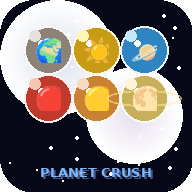
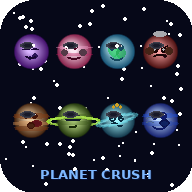
Add files via upload

diff --git a/index.html b/index.html
@@ -205,10 +205,10 @@ html,body { width:100%; height:100%; overflow:hidden; background:var(--bg); font
 @keyframes shakeLg  { 0%,100%{transform:translate(0,0);} 10%{transform:translate(-10px,4px) rotate(-1deg);} 30%{transform:translate(10px,-4px) rotate(1deg);} 50%{transform:translate(-8px,3px) rotate(-0.5deg);} 70%{transform:translate(8px,-3px) rotate(0.5deg);} 90%{transform:translate(-4px,1px);} }
 @keyframes shakeEpic{ 0%,100%{transform:translate(0,0) scale(1);} 8%{transform:translate(-14px,6px) rotate(-2deg) scale(1.02);} 20%{transform:translate(14px,-6px) rotate(2deg) scale(0.98);} 35%{transform:translate(-10px,5px) rotate(-1.5deg);} 50%{transform:translate(12px,-4px) rotate(1.5deg);} 65%{transform:translate(-8px,3px) rotate(-1deg);} 80%{transform:translate(7px,-2px);} }
 
-/* ── Special gems ── */
+/* ── Special objects ── */
 .cell.special-black-hole svg { filter: drop-shadow(0 0 10px rgba(180,0,255,0.9))  drop-shadow(0 0 20px rgba(100,0,200,0.7))  !important; }
 .cell.special-pulsar svg     { filter: drop-shadow(0 0 10px rgba(255,200,50,0.9))  drop-shadow(0 0 20px rgba(255,150,0,0.7))  !important; }
-.cell.special-quantum-bomb svg { filter: drop-shadow(0 0 10px rgba(255,255,255,0.95)) drop-shadow(0 0 20px rgba(100,200,255,0.8)) !important; }
+.cell.special-quantum-explosion svg { filter: drop-shadow(0 0 10px rgba(255,255,255,0.95)) drop-shadow(0 0 20px rgba(100,200,255,0.8)) !important; }
 
 /* ── Moves display ── */
 #moves-wrap { width:100%; display:flex; align-items:center; justify-content:center; gap:6px; }
@@ -442,8 +442,8 @@ html,body { width:100%; height:100%; overflow:hidden; background:var(--bg); font
 
     <!-- Page 3: Specials -->
     <div class="tut-page" id="tut-p2">
-      <div class="tut-title">✨ Special Gems</div>
-      <div class="tut-text" style="margin-bottom:6px">Bigger matches create powerful special gems.</div>
+      <div class="tut-title">✨ Special Objects</div>
+      <div class="tut-text" style="margin-bottom:6px">Bigger matches create powerful special objects.</div>
 
       <div class="tut-special" id="tut-sp-pulsar"></div>
       <div class="tut-special" id="tut-sp-blackhole"></div>
@@ -621,7 +621,7 @@ function soundLevelUp() {
   noise(0.15, 0.12, 1200, 0.3);
 }
 
-// Special gem activation: sci-fi zap
+// Special object activation: sci-fi zap
 function soundSpecial() {
   tone(1200, 0.08, 0.28, 'square', 0);
   tone(800,  0.12, 0.22, 'square', 0.05);
@@ -637,10 +637,10 @@ document.getElementById('mute-btn').addEventListener('click', () => {
 // ═══ GAME CONSTANTS ═══════════════════════════════════════════════════════════
 const COLS = 8, ROWS = 10;
 const PLANET_TYPES = 8;
-// Special gem types
+// Special object types
 const SPECIAL_PULSAR     = 'pulsar';      // match 4 → wipes full row + column
 const SPECIAL_BLACK_HOLE = 'black-hole';  // match 5 → explodes 3×3 area
-const SPECIAL_QUANTUM_BOMB = 'quantum-bomb';  // match L/T shape → removes ALL of one planet type
+const SPECIAL_QUANTUM_EXPLOSION = 'quantum-explosion';  // match L/T shape → removes ALL of one planet type
 
 const LEVEL_TARGETS = [2000, 5000, 10000, 18000, 30000, 46000, 65000, 88000, 115000, 147000];
 const BASE_MOVES = { kid: 30, adult: 20 };
@@ -678,10 +678,10 @@ function initBoard() {
     [
       SPECIAL_PULSAR, SPECIAL_PULSAR, SPECIAL_PULSAR,
       SPECIAL_BLACK_HOLE, SPECIAL_BLACK_HOLE,
-      SPECIAL_QUANTUM_BOMB,
+      SPECIAL_QUANTUM_EXPLOSION,
     ].forEach((sp, i) => {
       const [r, c] = allCells[i];
-      // Keep the planet's type so Quantum Bomb knows what to clear when swapped
+      // Keep the planet's type so Quantum Explosion knows what to clear when swapped
       board[r][c] = { type: board[r][c].type, special: sp };
     });
   }
@@ -932,7 +932,7 @@ function makeCell(r, c) {
     svg.setAttribute('viewBox', '0 0 40 40');
     svg.setAttribute('xmlns', 'http://www.w3.org/2000/svg');
     if (planet.special) {
-      // Specials are their own standalone gem — no planet underneath
+      // Specials are their own standalone object — no planet underneath
       div.classList.add('gem', 'special-' + planet.special);
       svg.innerHTML = SPECIAL_SVG[planet.special]();
     } else {
@@ -945,7 +945,7 @@ function makeCell(r, c) {
   return div;
 }
 
-// Standalone SVG designs for special gems (no planet underneath)
+// Standalone SVG designs for special objects — no planet underneath
 const SPECIAL_SVG = {
   // ⭐ Pulsar — gold 8-point star, explodes 3×3
   'pulsar': () => `
@@ -988,8 +988,8 @@ const SPECIAL_SVG = {
     <line x1="20" y1="2" x2="20" y2="38" stroke="#a78bfa" stroke-width="0.6" opacity="0.35"/>
     <line x1="2" y1="20" x2="38" y2="20" stroke="#a78bfa" stroke-width="0.6" opacity="0.35"/>`,
 
-  // 🌈 Quantum Bomb — rainbow swirl, removes all of one type
-  'quantum-bomb': () => `
+  // 🌈 Quantum Explosion — rainbow swirl, removes all of one type
+  'quantum-explosion': () => `
     <defs><radialGradient id="cbg" cx="50%" cy="50%" r="50%">
       <stop offset="0%" stop-color="#1a1a2e"/>
       <stop offset="100%" stop-color="#0d0d1a"/>
@@ -1221,7 +1221,7 @@ async function handleSwap(r1, c1, r2, c2) {
       }
       showPopup('⭐ PULSAR BLAST!');
       soundSpecial();
-    } else if (special.special === SPECIAL_QUANTUM_BOMB) {
+    } else if (special.special === SPECIAL_QUANTUM_EXPLOSION) {
       // Destroy all planets of the target's type on the board
       const targetType = target.type;
       for (let r = 0; r < ROWS; r++)
@@ -1229,7 +1229,7 @@ async function handleSwap(r1, c1, r2, c2) {
           if (board[r][c] && !board[r][c].special && board[r][c].type === targetType) blastCells.add(r + ',' + c);
       // Also remove the special itself
       blastCells.add(specialPos.r + ',' + specialPos.c);
-      showPopup('⚛ QUANTUM BOMB!');
+      showPopup('💥 QUANTUM EXPLOSION!');
       soundSpecial();
     } else if (special.special === SPECIAL_BLACK_HOLE) {
       // Blast 3×3 area centred on where the Black Hole LANDS after the swap
@@ -1332,7 +1332,7 @@ function findMatches() {
     }
   }
 
-  // Horizontal runs — only start a run when we have a real non-special gem
+  // Horizontal runs — only start a run when we have a real non-special object
   for (let r = 0; r < ROWS; r++) {
     let run = [], runType = null;
     for (let c = 0; c < COLS; c++) {
@@ -1375,7 +1375,7 @@ function findMatches() {
     processRun(run, runType);
   }
 
-  // L/T shape detection → Quantum Bomb (remove all of that type)
+  // L/T shape detection → Quantum Explosion (remove all of that type)
   // Look for any cell that appears in both a horizontal AND vertical match-run
   const hMatched = new Set(), vMatched = new Set();
   for (let r = 0; r < ROWS; r++) {
@@ -1400,13 +1400,13 @@ function findMatches() {
     }
     if (run.length >= 3) run.forEach(k => vMatched.add(k));
   }
-  // Intersection cells (L/T/+ shapes) become quantum bombs
+  // Intersection cells (L/T/+ shapes) become quantum explosions
   hMatched.forEach(k => {
     if (vMatched.has(k)) {
       const [r,c] = k.split(',').map(Number);
       const gem = board[r][c];
       if (gem && !gem.special && !specials.has(k)) {
-        specials.set(k, { type: gem.type, special: SPECIAL_QUANTUM_BOMB });
+        specials.set(k, { type: gem.type, special: SPECIAL_QUANTUM_EXPLOSION });
       }
     }
   });
@@ -1439,7 +1439,7 @@ async function resolveMatches(matches, specials) {
 
     // Check if any matched cell is itself a special (shouldn't normally happen
     // since specials are activated by swapping, but clean up any that land in matches)
-    // ── Fire special gem effects ──────────────────────────────────────────────
+    // ── Fire special object effects ──────────────────────────────────────────────
     const extraCells = new Set();
     matches.forEach(key => {
       const [r, c] = key.split(',').map(Number);
@@ -1461,7 +1461,7 @@ async function resolveMatches(matches, specials) {
         for (let rr = 0; rr < ROWS; rr++) extraCells.add(rr + ',' + c);
         showPopup('⭐ PULSAR BLAST!');
         soundSpecial();
-      } else if (gem.special === SPECIAL_QUANTUM_BOMB) {
+      } else if (gem.special === SPECIAL_QUANTUM_EXPLOSION) {
         // Find the most common planet type on the board to clear
         const typeCounts = new Array(PLANET_TYPES).fill(0);
         for (let rr = 0; rr < ROWS; rr++)
@@ -1471,7 +1471,7 @@ async function resolveMatches(matches, specials) {
         for (let rr = 0; rr < ROWS; rr++)
           for (let cc = 0; cc < COLS; cc++)
             if (board[rr][cc] && !board[rr][cc].special && board[rr][cc].type === targetType) extraCells.add(rr+','+cc);
-        showPopup('⚛ QUANTUM BOMB!');
+        showPopup('💥 QUANTUM EXPLOSION!');
         soundSpecial();
       }
     });
@@ -1624,7 +1624,7 @@ function checkGameState() {
 }
 
 function hasValidMove() {
-  // Any special gem on the board can always be activated by swapping with a neighbour
+  // Any special object on the board can always be activated by swapping with a neighbour
   for (let r = 0; r < ROWS; r++)
     for (let c = 0; c < COLS; c++)
       if (board[r][c]?.special) return true;
@@ -1846,7 +1846,7 @@ setResponsiveSize();
     const specDefs = [
       { id:'tut-sp-pulsar',    svg: SPECIAL_SVG['pulsar'],       name:'⭐ Pulsar',        how:'Match 4 in a row',         desc:'Wipes the entire row and column it sits on — a cross blast across the board.' },
       { id:'tut-sp-blackhole', svg: SPECIAL_SVG['black-hole'],   name:'🌑 Black Hole',    how:'Match 5 or more in a row', desc:'Explodes the 3×3 area around it, destroying up to 9 nearby planets.' },
-      { id:'tut-sp-quantum',   svg: SPECIAL_SVG['quantum-bomb'], name:'⚛ Quantum Bomb',  how:'Match an L or T shape',    desc:'Destroys every planet of the same type across the whole board — quantum entanglement!' },
+      { id:'tut-sp-quantum',   svg: SPECIAL_SVG['quantum-explosion'], name:'💥 Quantum Explosion',  how:'Match an L or T shape',    desc:'Destroys every planet of the same type across the whole board — quantum entanglement!' },
     ];
     specDefs.forEach(({ id, svg, name, how, desc }) => {
       const el = document.getElementById(id);
